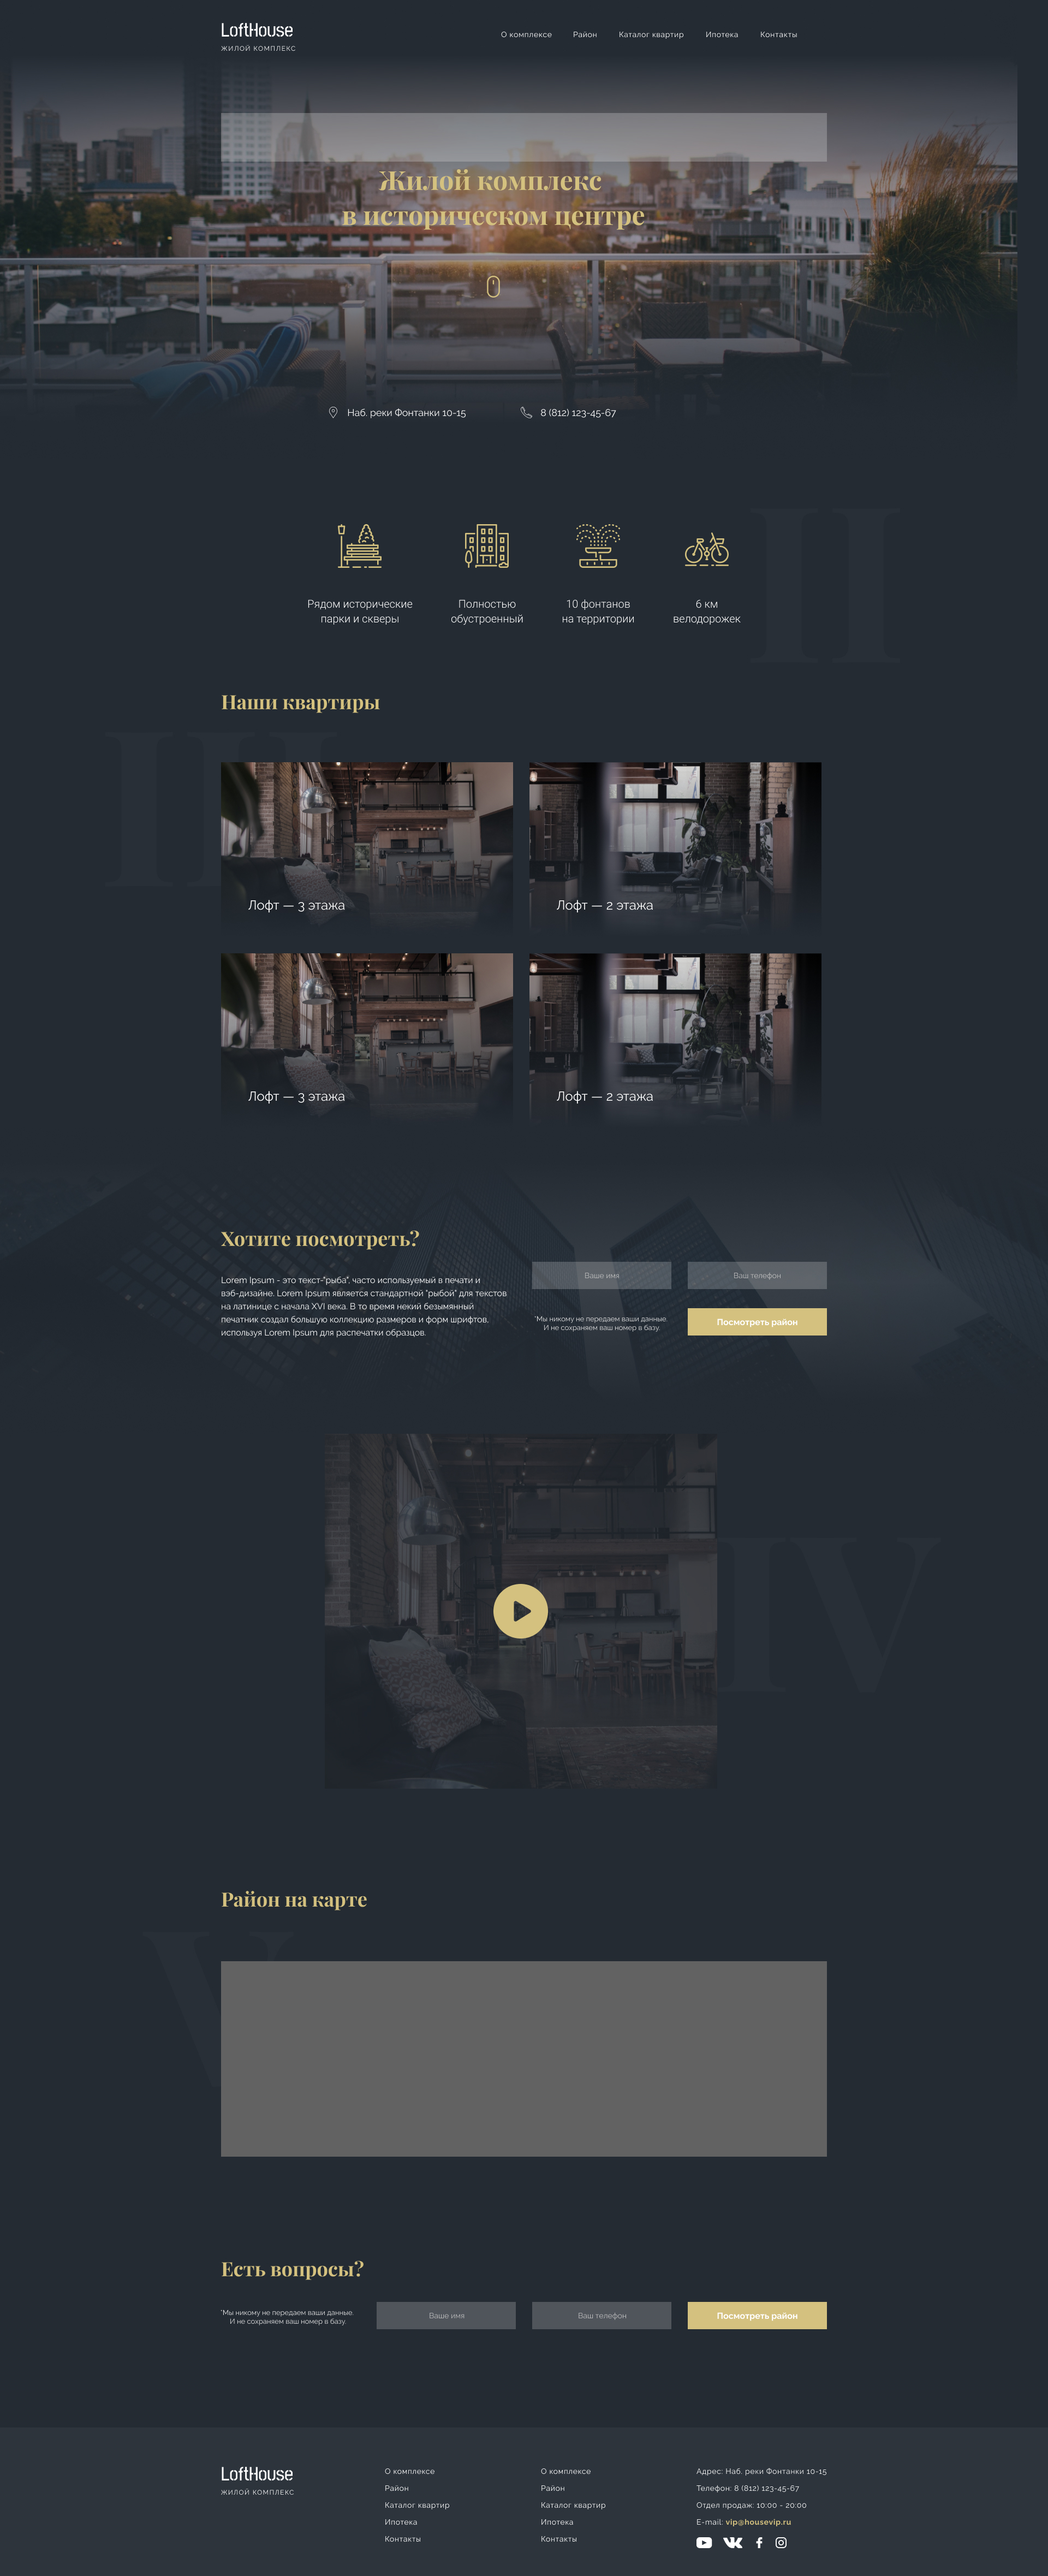
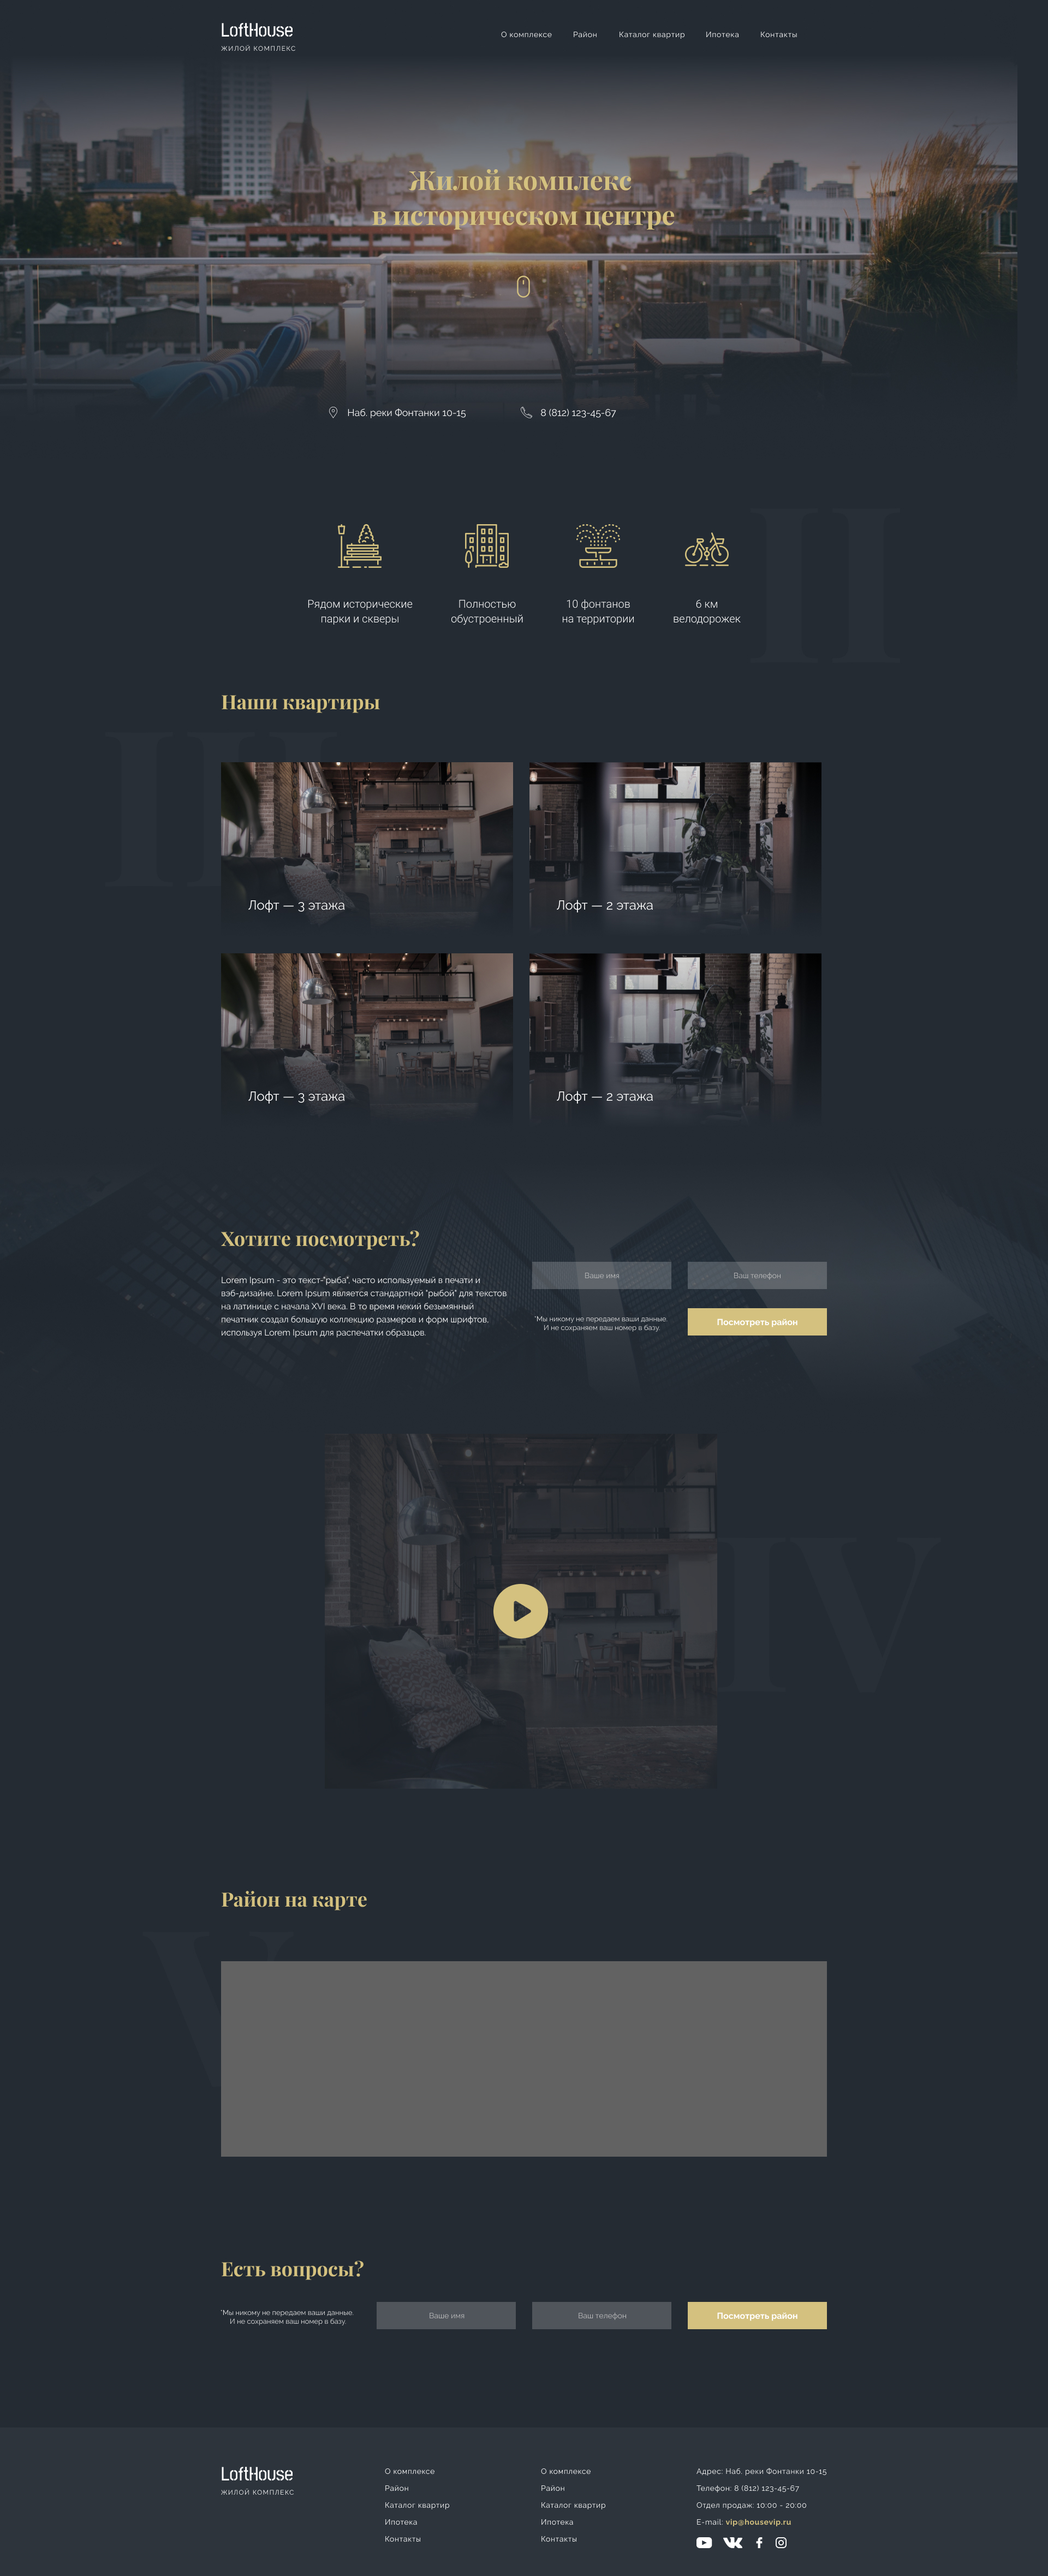
Pixel perfect for header__top, header__title
Made pixel perfections for header__top and header__title

Changed region(s): [[0.1875, 0.0312, 0.8125, 0.0935]]

diff --git a/public/css/main.css b/public/css/main.css
@@ -213,7 +213,7 @@ sup {
 
 ._icon-mouse::before {
   content: "\e906";
-  color: inherit;
+  color: #d4c17f;
 }
 
 ._icon-phone::before {
@@ -333,6 +333,29 @@ a:hover {
   font-size: 3rem;
   color: #d4c17f;
   text-align: center;
+}
+
+.title {
+  min-height: 16.375rem;
+  padding-top: 0.625rem;
+  display: -webkit-box;
+  display: -ms-flexbox;
+  display: flex;
+  -webkit-box-orient: vertical;
+  -webkit-box-direction: normal;
+      -ms-flex-direction: column;
+          flex-direction: column;
+  -webkit-box-pack: justify;
+      -ms-flex-pack: justify;
+          justify-content: space-between;
+}
+
+._icon-mouse {
+  font-size: 2.5rem;
+}
+
+._icon-mouse:hover::before {
+  color: #ffffff;
 }
 
 nav {

diff --git a/source/css/main.css b/source/css/main.css
@@ -213,7 +213,7 @@ sup {
 
 ._icon-mouse::before {
   content: "\e906";
-  color: inherit;
+  color: #d4c17f;
 }
 
 ._icon-phone::before {
@@ -333,6 +333,29 @@ a:hover {
   font-size: 3rem;
   color: #d4c17f;
   text-align: center;
+}
+
+.title {
+  min-height: 16.375rem;
+  padding-top: 0.625rem;
+  display: -webkit-box;
+  display: -ms-flexbox;
+  display: flex;
+  -webkit-box-orient: vertical;
+  -webkit-box-direction: normal;
+      -ms-flex-direction: column;
+          flex-direction: column;
+  -webkit-box-pack: justify;
+      -ms-flex-pack: justify;
+          justify-content: space-between;
+}
+
+._icon-mouse {
+  font-size: 2.5rem;
+}
+
+._icon-mouse:hover::before {
+  color: #ffffff;
 }
 
 nav {

diff --git a/source/scss/blocks/_header.scss b/source/scss/blocks/_header.scss
@@ -33,3 +33,19 @@
     color: $accent;
     text-align: center;
 }
+
+.title {
+    min-height: rems(262);
+    padding-top: rems(10);
+    display: flex;
+    flex-direction: column;
+    justify-content: space-between;
+}
+
+._icon-mouse {
+    font-size: rems(40);
+}
+
+._icon-mouse:hover::before {
+    color: $white;
+}

diff --git a/source/scss/base/_5_fonts.scss b/source/scss/base/_5_fonts.scss
@@ -93,11 +93,7 @@
 
 ._icon-mouse::before {
     content: $_icon-mouse;
-    color: inherit;
-    // color: #fff;
-    // &:hover {
-    //     color: $accent;
-    // }
+    color: $accent;
 }
 
 ._icon-phone::before {
